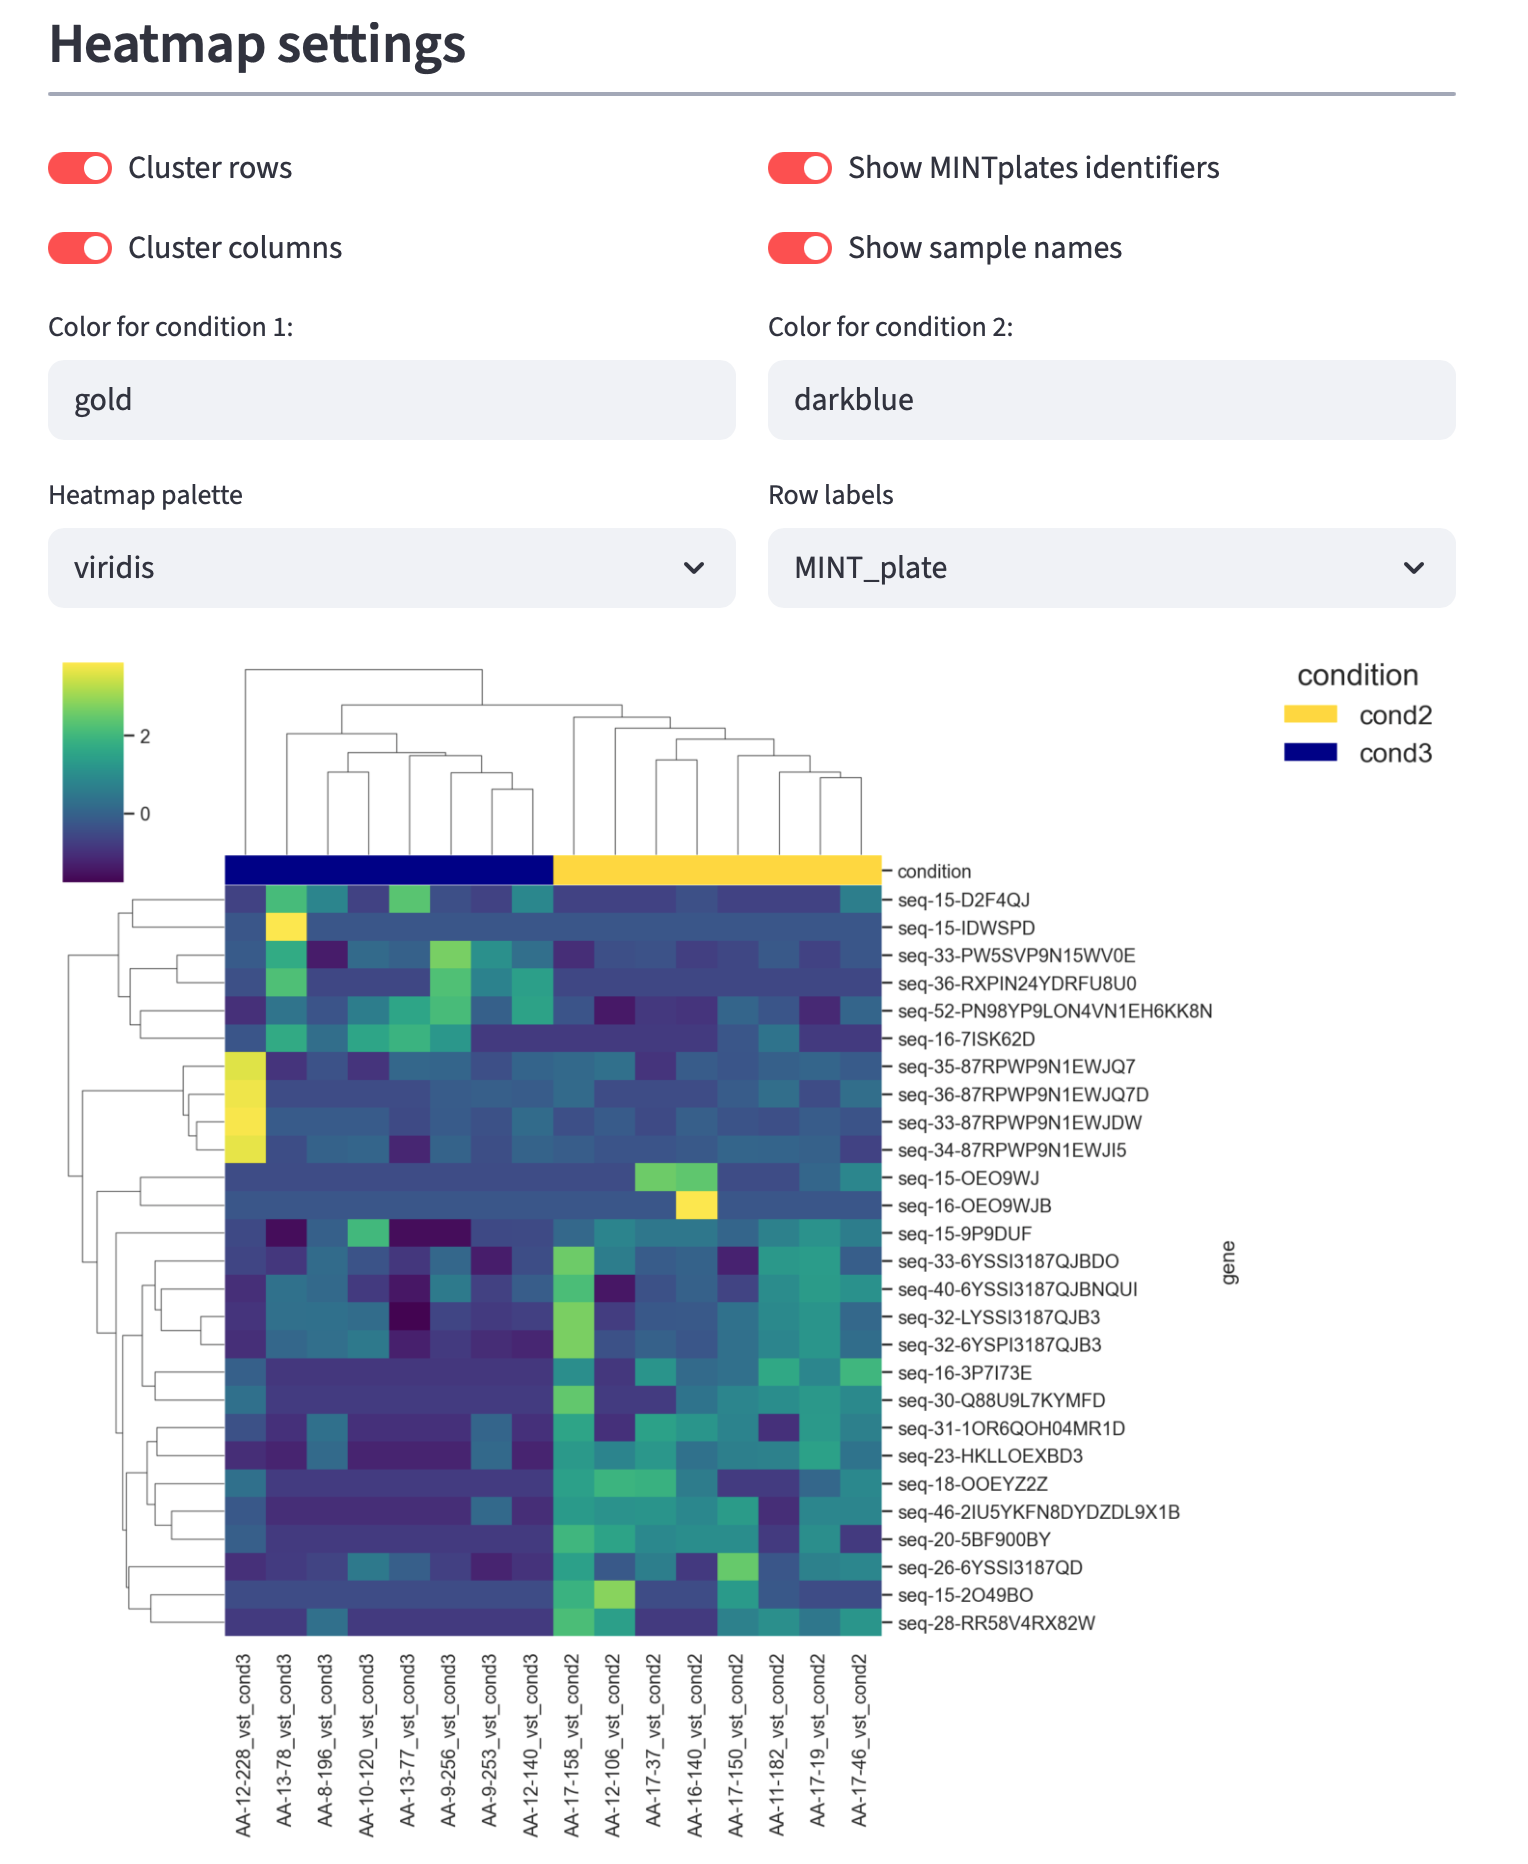
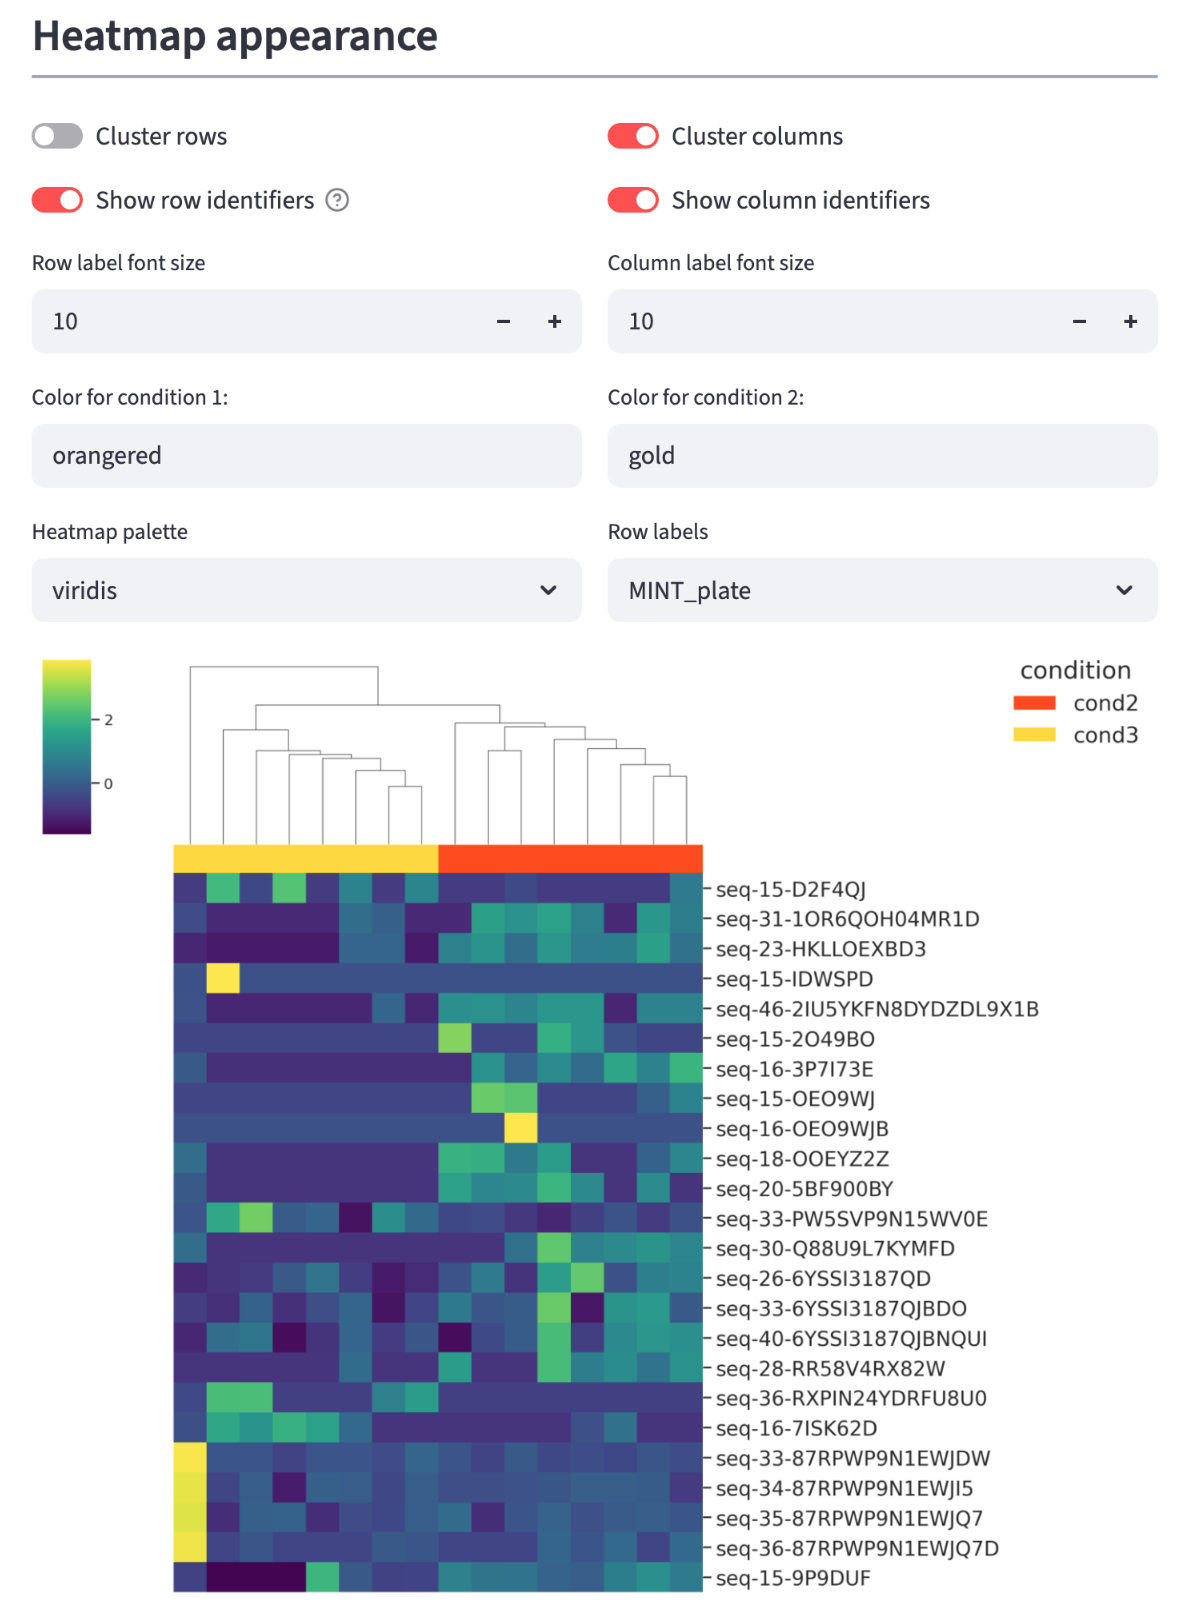
Updated documentation

diff --git a/docs/sections.md b/docs/sections.md
@@ -2,9 +2,15 @@
 
 ## Reads Statistics Viewer
 
-### Reads table
+### Input
 
-Provides visualization of the read counts summary CSV file created by the PerSeqPIPE workflow (`{project_name}/all_stats/read_counts_summary.csv`). This file contains summary for number of reads passing each preprocessing and quantification step. For description of individual columns from the `read_counts_summary.csv` please go to documentation of PerSeqPIPE [here](https://github.com/ktrachtova/perseqpipe/blob/main/docs/outputs.md#reads-statistics).
+| input file                | location in PerSeqPIPE results |
+|---------------------------|--------------------------------|
+| `read_counts_summary.csv` | `{project_name}/all_stats/`    |
+
+### Subsection: Reads table
+
+Provides visualization of the read counts summary CSV file created by the PerSeqPIPE workflow called `read_counts_summary.csv`. This file contains summary for number of reads passing each preprocessing and quantification step. For description of individual columns from the `read_counts_summary.csv` please go to documentation of PerSeqPIPE [here](https://github.com/ktrachtova/perseqpipe/blob/main/docs/outputs.md#reads-statistics).
 
 <picture>
   <source media="(prefers-color-scheme: dark)" srcset="images/reads_statistics_viewer/reads_table.png">
@@ -12,9 +18,9 @@ Provides visualization of the read counts summary CSV file created by the PerSeq
        style="width:600px; margin-bottom:10px;">
 </picture>
 
-### Reads Statistics Visualization
+### Subsection: Reads Statistics Visualization
 
-Currently 2 different plots to visualize number of reads and percentage of reads passing each preprocessing step are available:
+Currently supported plot types:
 
 * **barplot** of both number of reads and % passing each preprocessing and quantification step
 * **pieplot** showing % of reads in after each preprocessing and quantification step for individual samples
@@ -31,9 +37,18 @@ For **pieplots** user can change color palette and remove specific step(s) from 
 
 ### Downloading plots
 
-All plots currently viewed (and any adjustments made by user) can be downloaded either individually (top right corner of each plot) or in a batch using buttons at the bottom of the Reads Statistics Viewer section. Currently supported format for batch download of all visualized plots is HTML.
+All plots currently viewed (and any adjustments made by user) can be downloaded either individually (top right corner of each plot) or in a batch using button at the bottom of the Reads Statistics Viewer section. Currently supported format for batch download of all visualized plots is HTML.
 
 ## sncRNA Counts Viewer
+
+### Input
+
+| input file                             | location in PerSeqPIPE results                     |
+|----------------------------------------|----------------------------------------------------|
+| `{sample}.genome.short_rna_counts.tsv` | `{project_name}/rna_quantification/genome/counts/` |
+
+
+### Overview
 
 This tab supports exploration of sncRNA counts produced by SNCRNA_QUANTICATION module of [PerSeqPIPE](https://github.com/ktrachtova/perseqpipe/blob/main/docs/module_description.md#module-5%EF%B8%8F%E2%83%A3-other-sncrna-quantification) for individual samples and includes following filtering:
 
@@ -58,19 +73,35 @@ If a specific RNA can be aligned to multiple loci in genome (like many tRNA and 
 
 ## DE Analysis Viewer
 
-The DE Analysis Viewer required following files:
+### Input
 
+| input file                                       | location in PerSeqPIPE results                     |
+|--------------------------------------------------|----------------------------------------------------|
+| `DE_analysis_{sncrna\|mirna\|isomirs}_results.tsv` | `{project_name}/de_analysis/sncrna` or `{project_name}/de_analysis/mnirna_isomirs` |
+| `DE_analysis_{sncrna\|mirna\|isomirs}_counts.tsv` | `{project_name}/de_analysis/sncrna` or `{project_name}/de_analysis/mnirna_isomirs` |
+
+### Overview
+
+The DE Analysis Viewer required following files:
 
 * DE statistics table (`DE_analysis_sncrna_results.tsv` or `DE_analysis_mirna|isomirs_results.tsv` produced by DE_ANALYSIS module of PerSeqPIPE)
 * table with counts (`DE_analysis_sncrna_counts.tsv` or `DE_analysis_mirna|isomirs_counts.tsv`).
 
 Please see [PerSeqPIPE documentation](https://github.com/ktrachtova/perseqpipe/blob/main/docs/de_analysis.md#output-files) decribing these specific files and their format.
 
-The DE Analysis Viewer has 2 separate subtabs showing PCA plot and heatmap. 
+The DE Analysis Viewer has 2 separate subtabs showing interactive PCA plot and heatmap.
 
 ### PCA plot
 
-PCA plot can be created from **VST** or **DESeq2-normalized counts**. 
+By default, a table showing raw counts will be rendered after the input files are uploaded. 
+
+<picture>
+  <source media="(prefers-color-scheme: dark)" srcset="images/de_analysis_viewer/pca_plot_table.png">
+  <img src="images/de_analysis_viewer/pca_plot_table.png" alt="Reads table"
+       style="width:600px; margin-bottom:20px;">
+</picture>
+
+PCA plot will be renred if **VST** or **DESeq2-normalized counts** are selected. User can adjust color for conditions, point size, font size for both axes, tick labels, legen and title. 
 
 <picture>
   <source media="(prefers-color-scheme: dark)" srcset="images/de_analysis_viewer/pca_plot.png">
@@ -80,9 +111,15 @@ PCA plot can be created from **VST** or **DESeq2-normalized counts**.
 
 ### Heatmap
 
-First section **Heatmap sequence selection** allow users to filter genes/sequences for heatmap based on log2FC thresholds, baseMean, p-value and adjusted p-value. User can also switch between different pairwise comparisons (if more than 2 conditions were present inside the design file for DE Analysis) and between different normalization types (raw, VST, DESeq2-normalized).
+First subsection **Heatmap sequence selection** allow users to filter genes/sequences for heatmap based on **log2FC thresholds**, **baseMean**, **p-value** and **adjusted p-value**. User can also switch between different pairwise comparisons (if more than 2 conditions were present inside the design file for DE Analysis) and between different normalization types (raw, VST, DESeq2-normalized).
 
-Sequences selected through **Heatmap sequence selection** section are visualize in the next section **Heatmap visualization**. Here, user can adjust clustering of both rows and columns as well as decide between showing MINTplate identifiers or sequences as row names for heatmap. 
+<picture>
+  <source media="(prefers-color-scheme: dark)" srcset="images/de_analysis_viewer/heatmap_seq_selection.png">
+  <img src="images/de_analysis_viewer/heatmap_seq_selection.png" alt="Reads table"
+       style="width:600px; margin-bottom:20px;">
+</picture>
+
+Sequences selected through **Heatmap sequence selection** subsection are visualize in **Heatmap appearance** subsection. Here, user can adjust clustering of both rows and columns, whether to show row/column labels, their font size etc. For row labels, if miRNA or isomiRs results are being visualized then their names will be automatically shown. For sncRNA sequences, upon clicking on Show row identifiers toggle a new option will appear to select whether to show sequences or MINT plates are row labels. 
 
 <picture>
   <source media="(prefers-color-scheme: dark)" srcset="images/de_analysis_viewer/heatmap.png">
@@ -91,6 +128,14 @@ Sequences selected through **Heatmap sequence selection** section are visualize 
 </picture>
 
 ## Reads Coordinate Extraction
+
+### Input
+
+| input file                                       | location in PerSeqPIPE results                     |
+|--------------------------------------------------|----------------------------------------------------|
+| `{sample}.genome.Aligned.sortedByCoord.out.bam` | `{project_name}/rna_quantification/genome/star_genome` |
+
+### Overview
 
 This tab provides a simple way how to quickly obtain all coordinates of specific quantified sequence. Input is a BAM file generated by PerSeqPIPE workflow (location `{project_name}/rna_quantification/genome/star_genome`) and a specific sequence of interest. Input BAM file will be searched for alignment loci of the specific sequence (on both strands) if there is any. Table summarizing all the found loci as well as a simple scatter plot summarizing on which chromosome can the sequence be found is shown.
 
